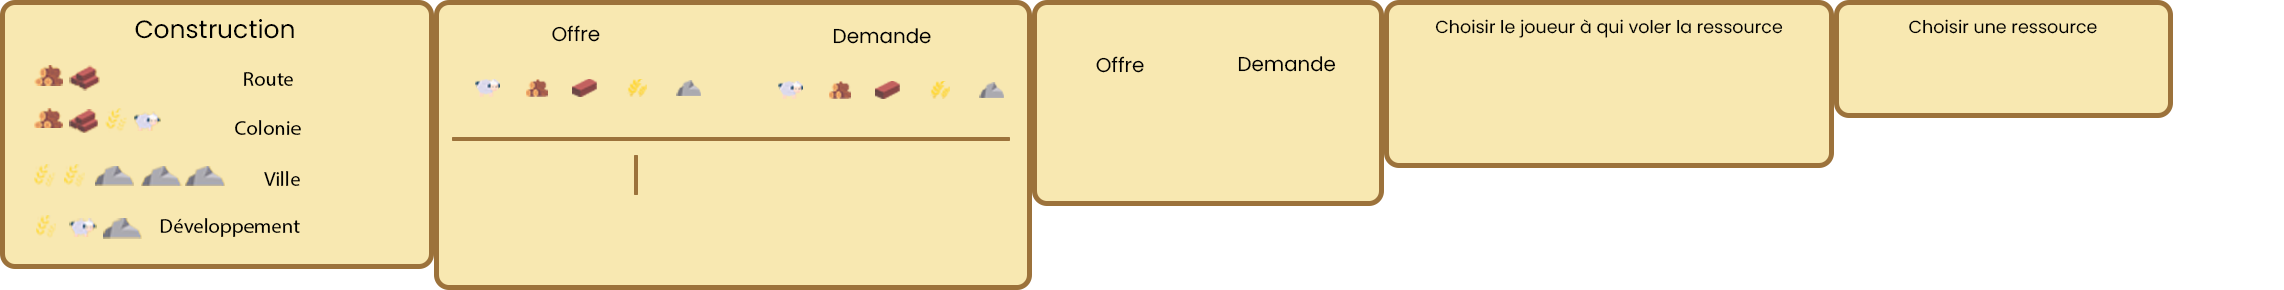
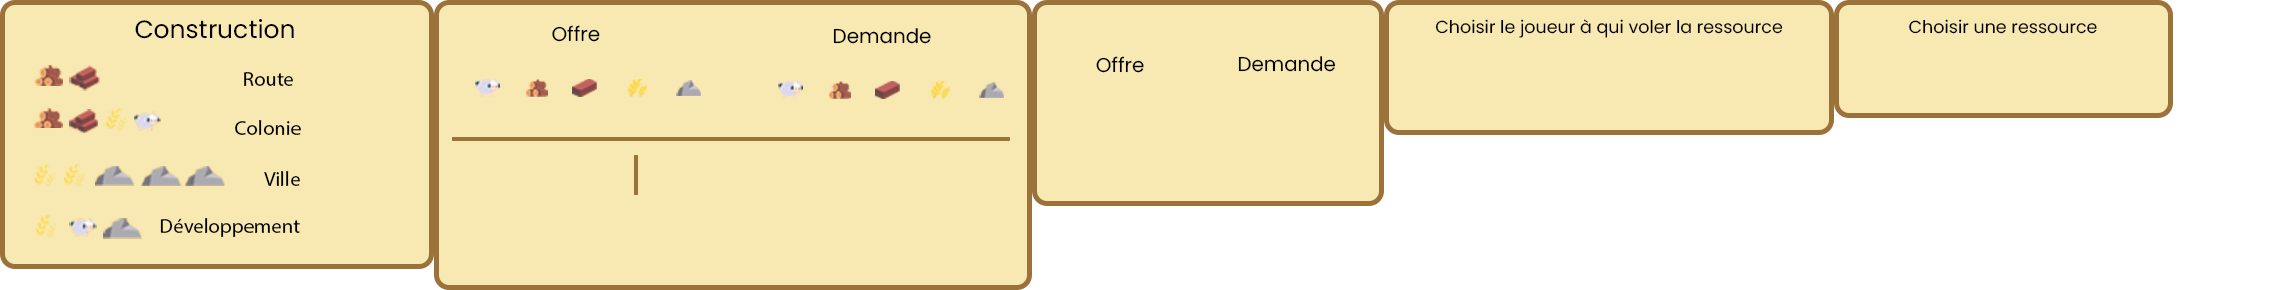
toDO next

Changed region(s): [[0.5906, 0.4345, 0.8082, 0.5897]]

diff --git a/src/shared/view/MenuThief.cpp b/src/shared/view/MenuThief.cpp
@@ -4,14 +4,15 @@
 
 namespace view{
 
-MenuThief::MenuThief(state::State* state, sf::Texture menuTexture, state::PlayerColor playerColor, sf::IntRect coords, DisplayState* displayState){
+MenuThief::MenuThief(state::State* state, sf::Texture menuTexture, state::PlayerColor playerColor, std::vector<state::Player> playerToSteal, sf::IntRect coords, DisplayState* displayState){
     this->menuTexture = menuTexture;
     this->menuTexture.setSmooth(true);
     this->state = state;
     this->displayState = displayState;
     this->coords = coords;
+    this->playerToSteal = playerToSteal;
 
-    spriteMenu = new sf::Sprite(this->menuTexture, sf::IntRect(1385, 0, 450, 167));
+    spriteMenu = new sf::Sprite(this->menuTexture, sf::IntRect(1385, 0, 450, 134));
     spriteMenu->setOrigin(spriteMenu->getGlobalBounds().width/2, 0);
     spriteMenu->setPosition(1280/2, 720 - spriteMenu->getGlobalBounds().height);
 
@@ -22,12 +23,14 @@ MenuThief::MenuThief(state::State* state, sf::Texture menuTexture, state::Player
     buttonTexture.loadFromFile("./../res/button.png");
     buttonTexture.setSmooth(true);
 
-    int gapbtwnames = 150, i = 0, x, y;
+    int gapbtwnames = spriteMenu->getGlobalBounds().width / playerToSteal.size();
+    int offset = gapbtwnames/2, i = 0, x, y;
 
-    for(state::Player playersName : this->state->players){
+    // for(state::Player playersName : this->state->players){
+    for(state::Player playersName : this->playerToSteal){
         if(playersName.playerColor != playerColor){
-            x = spriteMenu->getPosition().x - spriteMenu->getGlobalBounds().width/2 + gapbtwnames * (i) + 75;
-            y = spriteMenu->getPosition().y + spriteMenu->getGlobalBounds().height/2;
+            x = spriteMenu->getPosition().x - spriteMenu->getGlobalBounds().width/2 + gapbtwnames * (i) + offset;
+            y = spriteMenu->getPosition().y + spriteMenu->getGlobalBounds().height/2 + 10;
             
             buttonsSelect.push_back(new ButtonSelect(buttonTexture, sf::IntRect(x, y, 143, 48), (Select_ID) (i+4), playersName.name,  this->displayState));
             i++;

diff --git a/src/shared/view/StateView.cpp b/src/shared/view/StateView.cpp
@@ -359,16 +359,28 @@ void StateView::updateClickableObjects(state::PlayerColor playerColor)
         break;
 
     case STEAL_PLAYER:
-        clickableMenu.push_back((Menu *)new MenuThief(state, *menuTexture, viewPlayer, sf::IntRect(1280 / 2 - 351, 720 - 167, 351, 167), &(displayState[viewPlayer])));
-        for (int i = 0; i < ((MenuThief*) clickableMenu.back())->buttonsSelect.size(); i++)
-            clickableButton.push_back((Button*) ((MenuThief*) clickableMenu.back())->buttonsSelect[i]);
+        playerToSteal.clear();
+        for(state::Player p : state->players){
+            if(p.playerColor != viewPlayer){
+                engine::StealCardCommand* steal = new engine::StealCardCommand(viewPlayer, p.playerColor);
+                if(steal->verify(state))
+                    playerToSteal.push_back(p);
+                delete steal;
+            }
+        }if(playerToSteal.size() > 0){
+            clickableMenu.push_back((Menu *)new MenuThief(state, *menuTexture, viewPlayer, playerToSteal, sf::IntRect(1280 / 2 - 351, 720 - 167, 351, 167), &(displayState[viewPlayer])));
+            for (int i = 0; i < ((MenuThief*) clickableMenu.back())->buttonsSelect.size(); i++)
+                clickableButton.push_back((Button*) ((MenuThief*) clickableMenu.back())->buttonsSelect[i]);
+        }
+        else
+            displayState[viewPlayer] = STAND_BY;
         break;
 
     case PASS_TURN_DISPLAY:
         std::cout << "pass turn\n";
         sprintf(s, "passturn-%d", viewPlayer);
         engine->addSerializedCommand(s);
-        viewPlayer = (state::PlayerColor)((int)viewPlayer + 1 % 4);
+        viewPlayer = (state::PlayerColor)(((int)viewPlayer + 1) % 4);
         displayState[viewPlayer] = THROW_DICE;
         break;
 

diff --git a/src/shared/state/State.cpp b/src/shared/state/State.cpp
@@ -4,9 +4,6 @@ namespace state {
 
 State::State() {
 
-// for(int i = 0; i < map.buildings.size(); i++){
-
-// }
 }
 
 }
